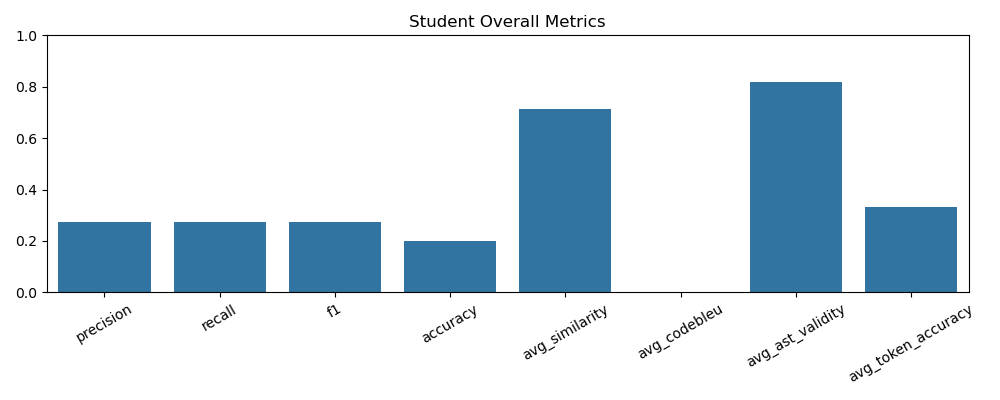
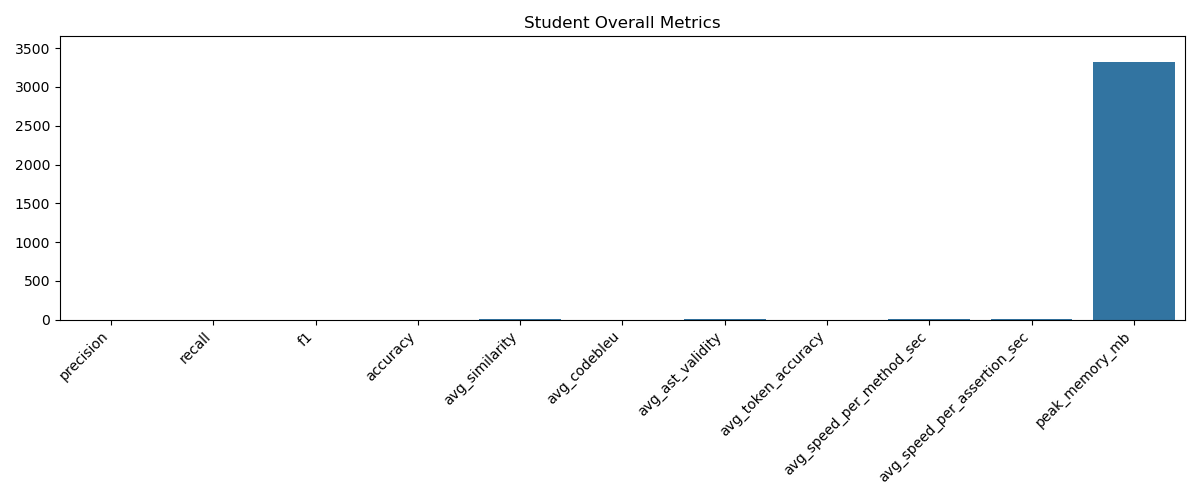
seperated performance benchmarks

diff --git a/benchmark_performance.py b/benchmark_performance.py
@@ -1,0 +1,166 @@
+#!/usr/bin/env python
+"""
+A lightweight script to benchmark a student model's performance on a Mac M1.
+It measures only inference speed and peak memory usage, minimizing the
+overhead from other quality evaluation metrics.
+"""
+import argparse
+import json
+import os
+import re
+import sys
+import torch
+import time
+import resource
+from tqdm import tqdm
+from transformers import T5ForConditionalGeneration, AutoTokenizer
+from torch.utils.data import Dataset, DataLoader
+
+# --- Simplified Dataset Loading (from the original evaluation script) ---
+
+class AssertionDataset(Dataset):
+    def __init__(self, data: list[dict], tokenizer, max_src=1024):
+        self.data = data
+        self.tok = tokenizer
+        self.max_src = max_src
+
+    def __len__(self):
+        return len(self.data)
+
+    def __getitem__(self, i):
+        e = self.data[i]
+        src = f"FOCAL METHOD:\n{e['focal_method']}\n\nTEST METHOD:\n{e['test_method_masked']}"
+        tokens = self.tok(
+            src,
+            padding="max_length",
+            truncation=True,
+            max_length=self.max_src,
+            return_tensors="pt"
+        )
+        return {
+            "input_ids": tokens.input_ids.squeeze(0),
+            "attention_mask": tokens.attention_mask.squeeze(0),
+        }
+
+def collate_fn(batch):
+    return {
+        "input_ids": torch.stack([b["input_ids"] for b in batch]),
+        "attention_mask": torch.stack([b["attention_mask"] for b in batch]),
+    }
+
+# --- Core Performance Measurement Function ---
+
+def measure_performance(model, tok, loader, device):
+    """
+    Performs inference and measures speed and memory usage.
+    """
+    model.to(device).eval()
+
+    # Performance metric accumulators
+    total_inference_time = 0.0
+    total_methods_processed = 0
+    total_assertions_generated = 0
+
+    print("\nRunning inference to measure performance...")
+    with torch.no_grad():
+        for batch in tqdm(loader, desc="Benchmarking"):
+            inp = batch["input_ids"].to(device)
+            msk = batch["attention_mask"].to(device)
+
+            # Time the inference call
+            start_time = time.perf_counter()
+            gen_ids = model.generate(
+                inp,
+                attention_mask=msk,
+                max_length=512, # A reasonable max length for generation
+                num_beams=4,
+                early_stopping=True
+            )
+            end_time = time.perf_counter()
+
+            # Accumulate performance data
+            total_inference_time += (end_time - start_time)
+            total_methods_processed += len(inp)
+
+            # We still need to decode to count the number of assertions generated
+            gen_lists = [
+                [s.strip() for s in re.split(r";|\n", tok.decode(g, skip_special_tokens=True)) if s.strip()]
+                for g in gen_ids
+            ]
+            total_assertions_generated += sum(len(gl) for gl in gen_lists)
+
+    # --- Calculate Final Performance Metrics ---
+
+    avg_speed_per_method = total_inference_time / total_methods_processed if total_methods_processed > 0 else 0.0
+    avg_speed_per_assertion = total_inference_time / total_assertions_generated if total_assertions_generated > 0 else 0.0
+
+    # Get peak memory usage (platform-aware)
+    peak_memory_raw = resource.getrusage(resource.RUSAGE_SELF).ru_maxrss
+    if sys.platform == "darwin":  # macOS
+        # On macOS, ru_maxrss is in bytes. Divide by 1024*1024 to get MB.
+        peak_memory_mb = peak_memory_raw / (1024 ** 2)
+    else:  # Assuming Linux
+        # On Linux, ru_maxrss is in kilobytes. Divide by 1024 to get MB.
+        peak_memory_mb = peak_memory_raw / 1024
+
+    return {
+        "avg_speed_per_method_sec": avg_speed_per_method,
+        "avg_speed_per_assertion_sec": avg_speed_per_assertion,
+        "peak_memory_mb": peak_memory_mb,
+        "total_methods_processed": total_methods_processed,
+    }
+
+def main():
+    parser = argparse.ArgumentParser(description="Benchmark a student model for inference speed and memory.")
+    parser.add_argument("--data_path", required=True, help="Path to the JSONL data file for input.")
+    parser.add_argument("--model_dir", required=True, help="Path to the directory containing the student model.")
+    parser.add_argument(
+        "--tokenizer_name",
+        default='Salesforce/codet5p-770m',
+        help="The name of the tokenizer to use, typically the teacher's."
+    )
+    parser.add_argument("--batch_size", type=int, default=1, help="Batch size for inference. Use 1 for realistic single-example latency.")
+    parser.add_argument("--max_samples", type=int, default=None, help="Number of samples to run for benchmarking.")
+    args = parser.parse_args()
+
+    # --- Setup Device (with M1 Pro support) ---
+    device = torch.device("cpu")
+    if torch.backends.mps.is_available():
+        device = torch.device("mps")
+    elif torch.cuda.is_available():
+        device = torch.device("cuda")
+    print(f"Device: {device}")
+
+    # --- Load Data and Model ---
+    with open(args.data_path) as f:
+        all_data = [json.loads(l) for l in f if l.strip() and not l.strip().startswith('{"header"')]
+
+    data = all_data[:args.max_samples] if args.max_samples else all_data
+    print(f"Loaded {len(data)} examples for benchmarking (max_samples={args.max_samples})")
+
+    print(f"Loading tokenizer from '{args.tokenizer_name}'...")
+    tok = AutoTokenizer.from_pretrained(args.tokenizer_name)
+
+    print(f"Loading model from '{args.model_dir}'...")
+    model = T5ForConditionalGeneration.from_pretrained(args.model_dir)
+
+    ds = AssertionDataset(data, tok)
+    # Use a batch size of 1 to measure single-example latency, but you can increase it
+    dl = DataLoader(ds, batch_size=args.batch_size, shuffle=False, collate_fn=collate_fn)
+
+    # --- Run Benchmark ---
+    performance_metrics = measure_performance(model, tok, dl, device)
+
+    # --- Print Results ---
+    print("\n--- Performance Benchmark Results ---")
+    print(f"Model: {args.model_dir}")
+    print(f"Total methods benchmarked: {performance_metrics['total_methods_processed']}")
+    print("-" * 35)
+    print(f"Average inference speed per method: {performance_metrics['avg_speed_per_method_sec']:.4f} seconds")
+    print(f"Average inference speed per assertion: {performance_metrics['avg_speed_per_assertion_sec']:.4f} seconds")
+    print(f"Peak memory usage of the script: {performance_metrics['peak_memory_mb']:.2f} MB")
+    print("-" * 35)
+
+
+if __name__ == "__main__":
+    main()
